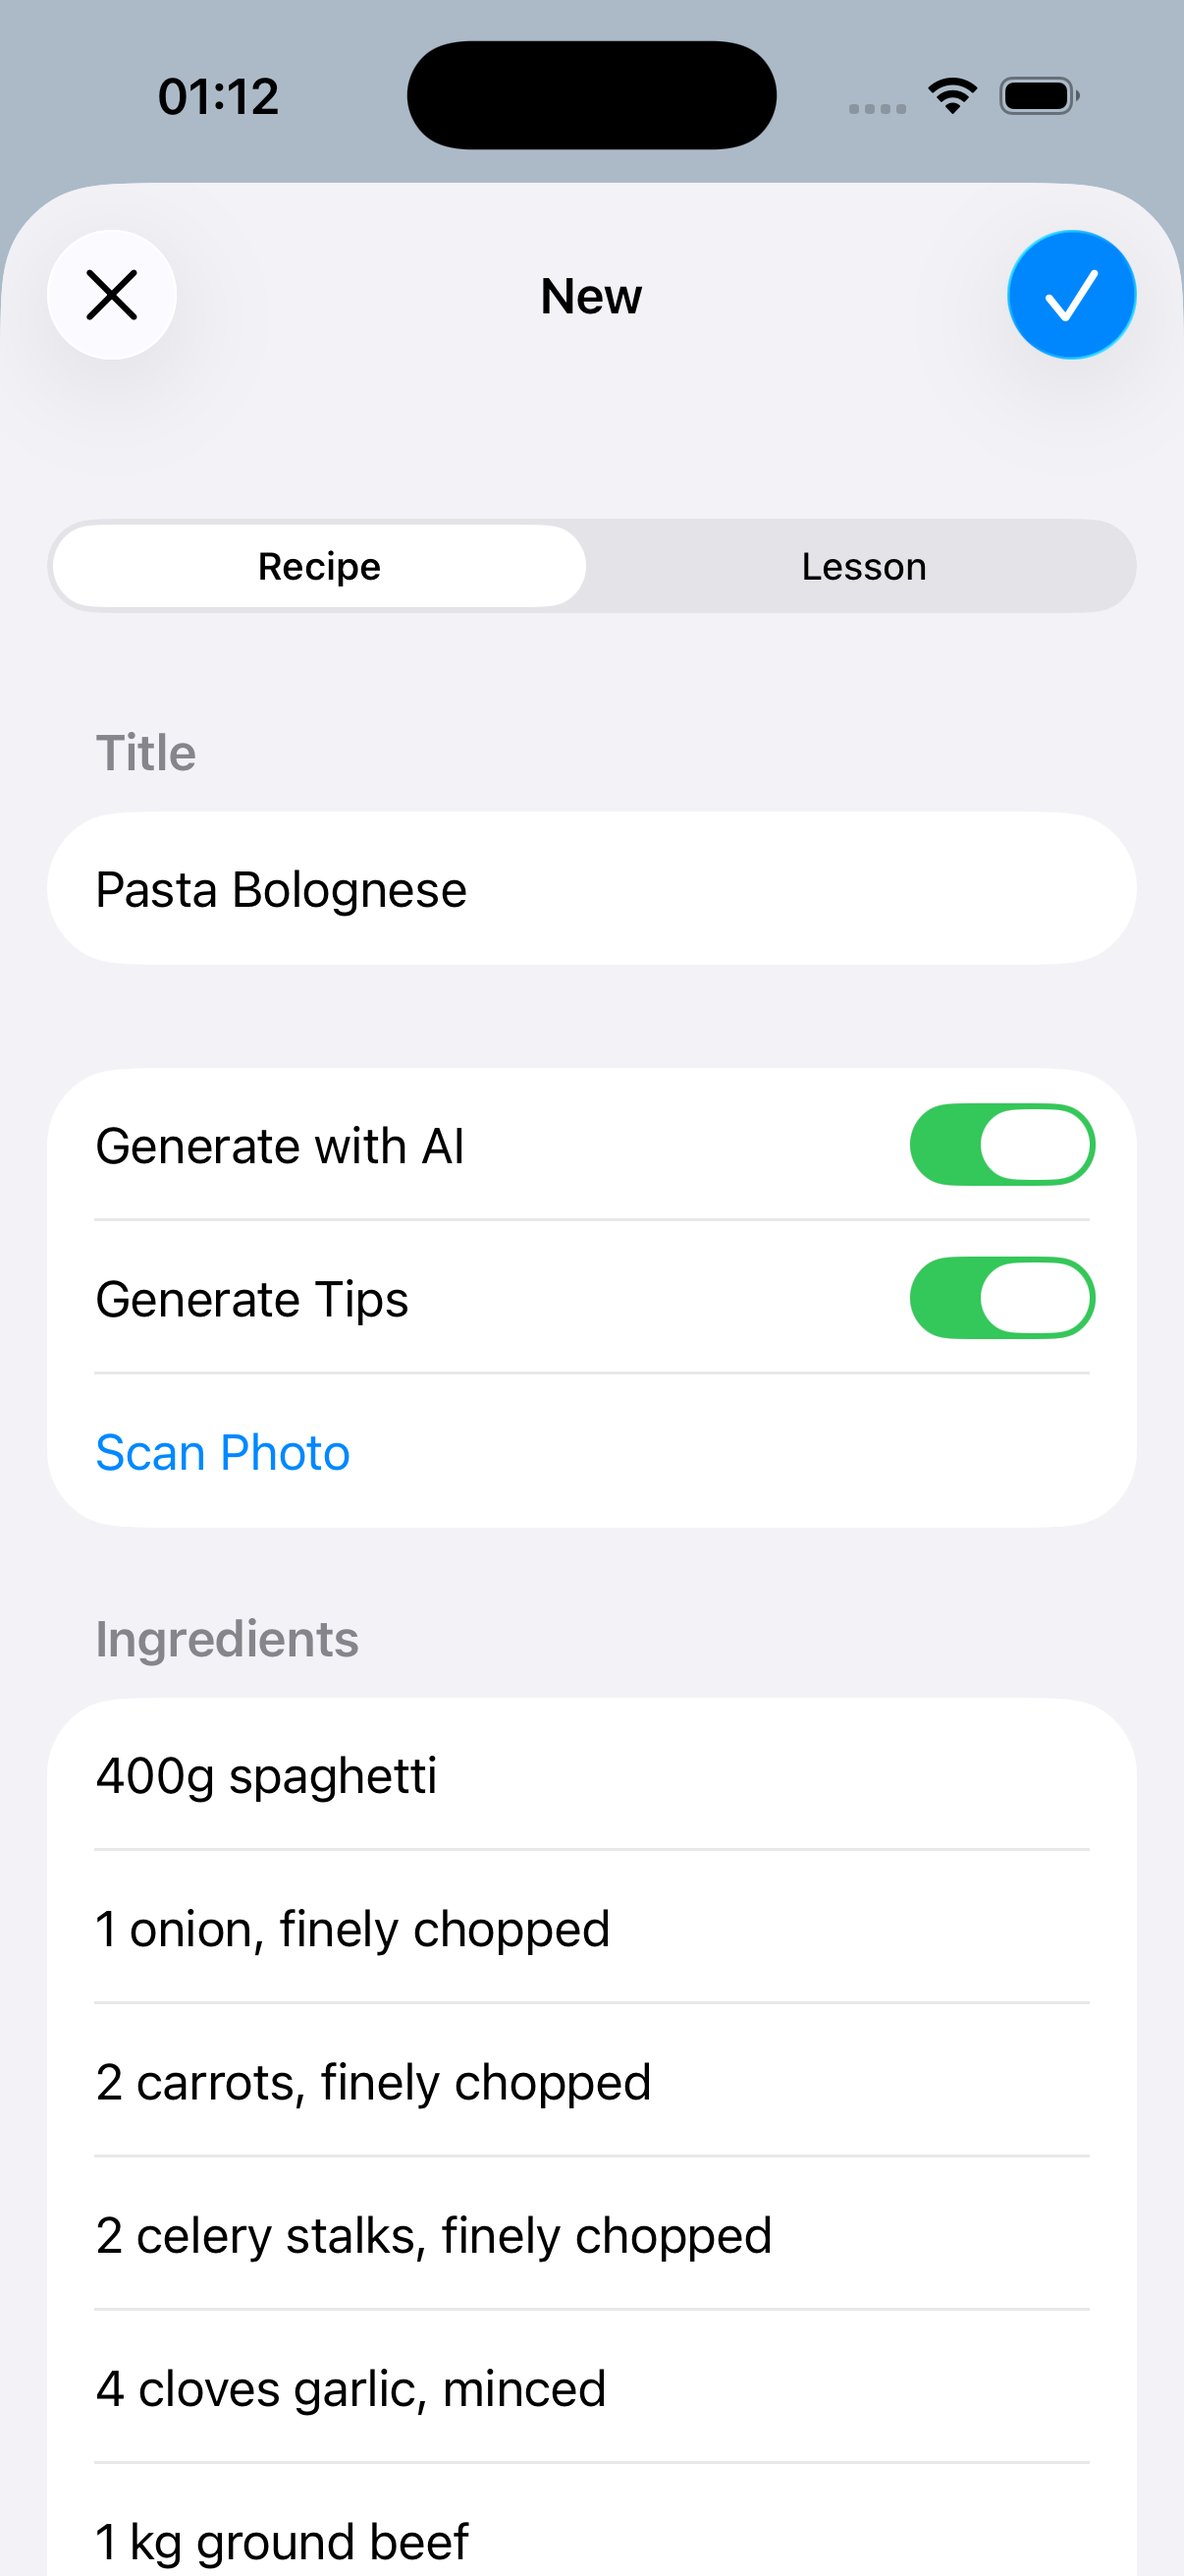
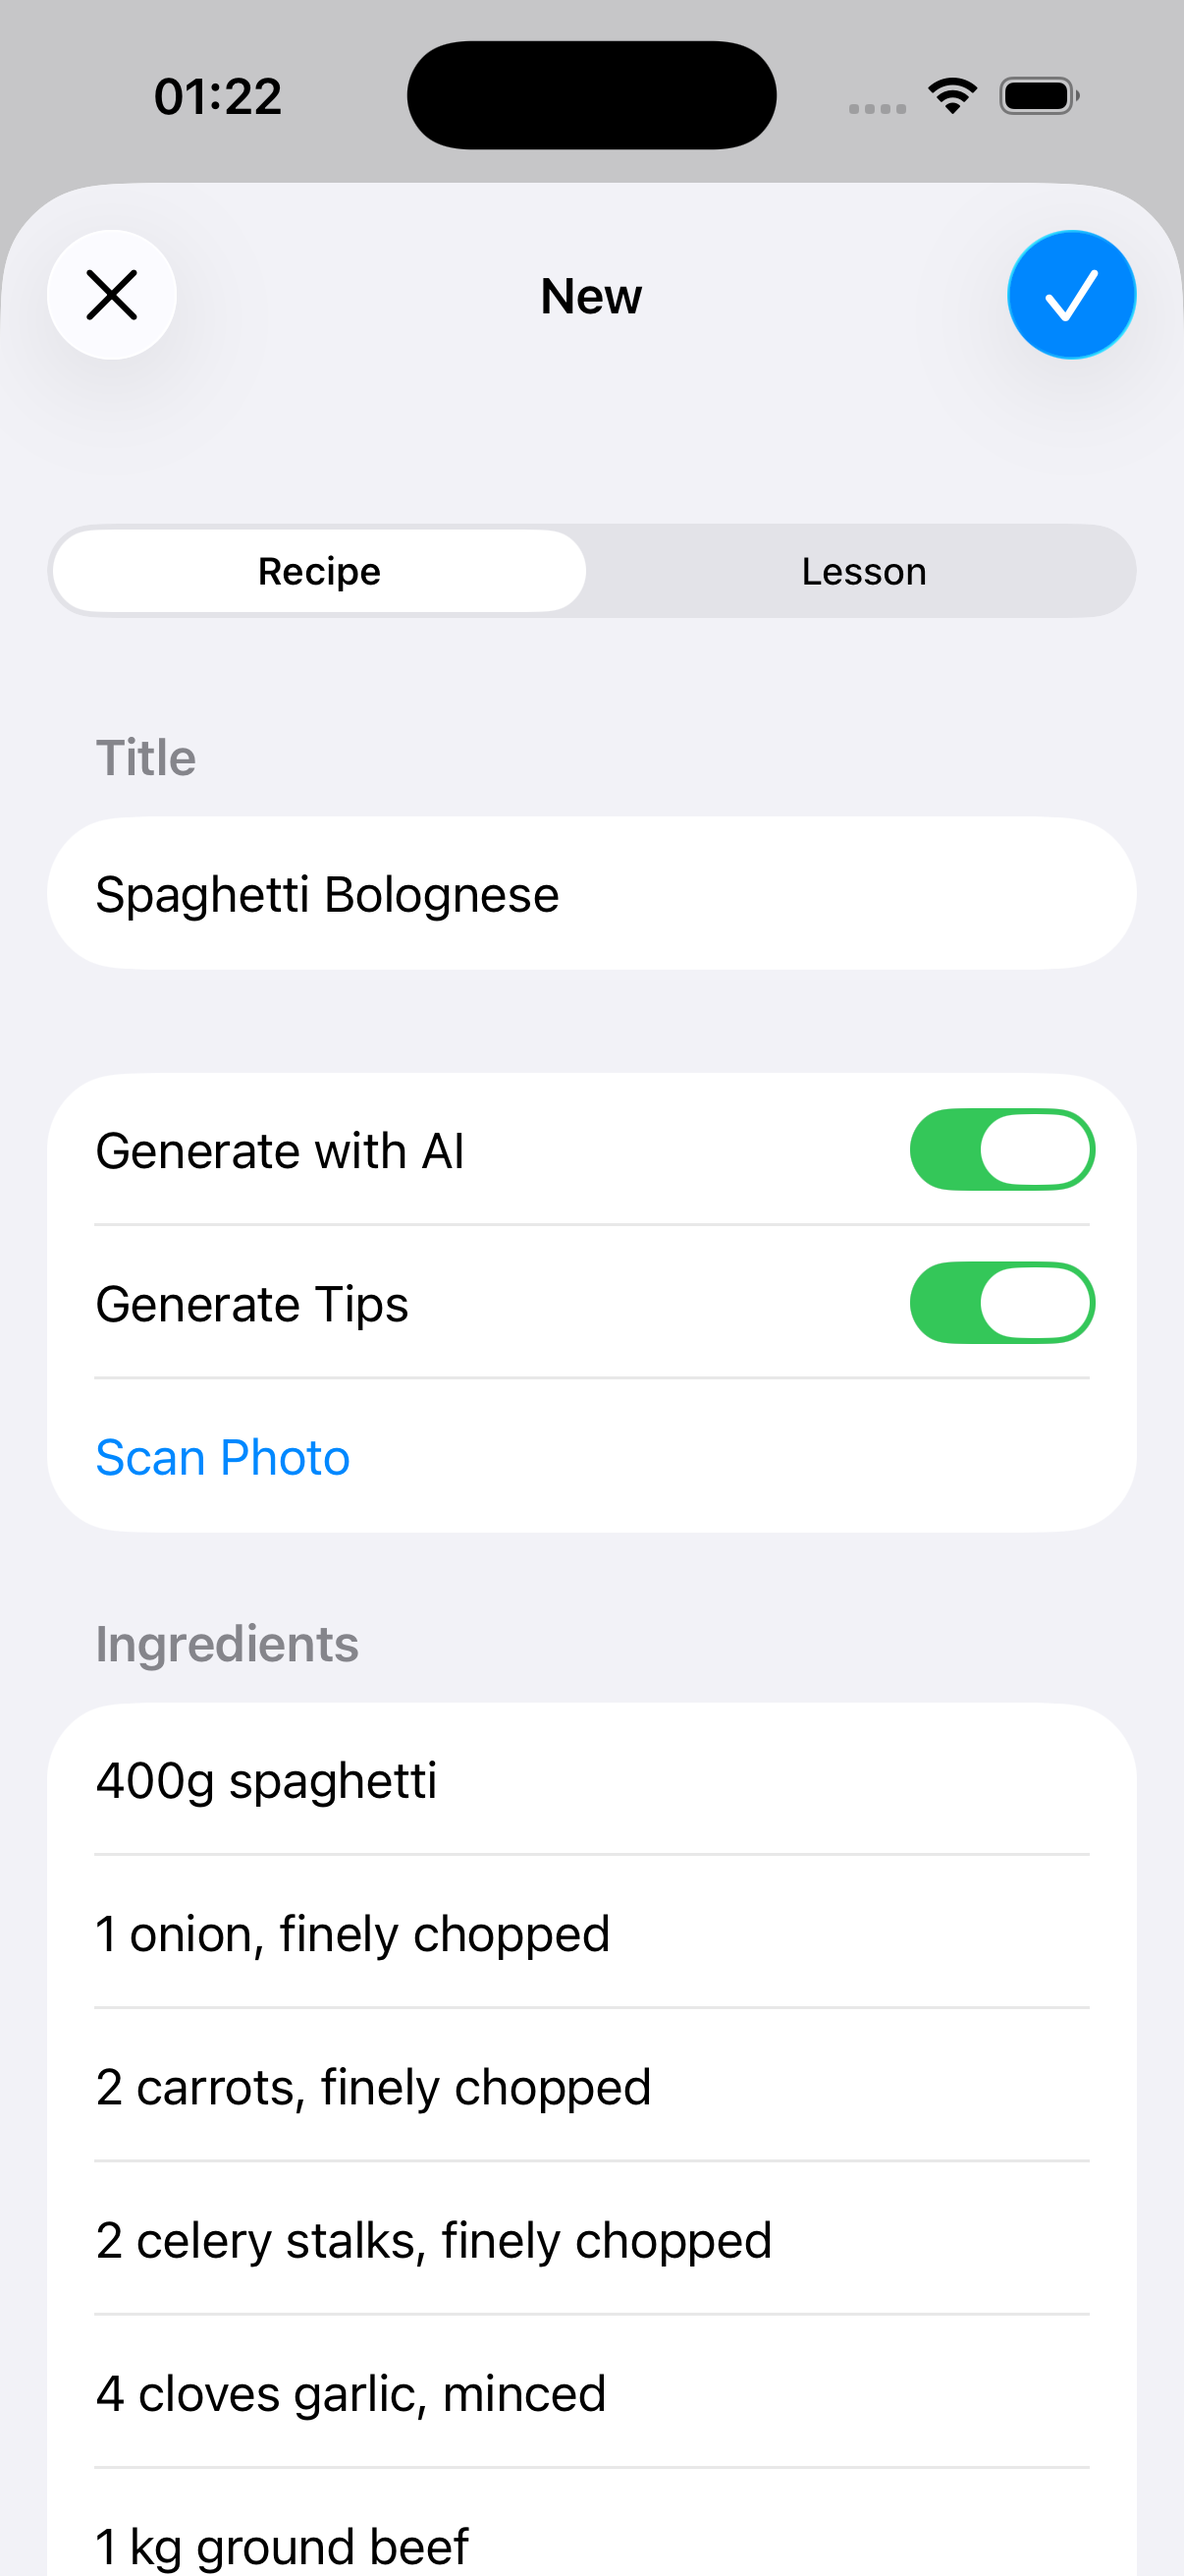
Update Sumari project imagery

diff --git a/lib/projects.ts b/lib/projects.ts
@@ -42,11 +42,15 @@ export const projects: Project[] = [
         "Safari Web Extension for AI-powered webpage summaries and follow-up questions using Apple Foundation Models.",
     href: "https://github.com/anthimewillmann/Sumari",
     linkLabel: "GitHub",
-    image: "/Sumari.PNG",
+    image: "/sumari-mobile-light.jpeg",
     overviewImageWidth: "w-[59.8%]",
     gallery: [
-      "/565B4AED-40A0-4D86-BC48-17FA3EBBDBDD_1_101_o.jpeg",
-      "/1B4C09C4-152A-4C51-A5E3-1AB3BCB0E890_1_101_o.jpeg",
+      "/sumari-mobile-light.jpeg",
+      "/sumari-mobile-dark.jpeg",
+      "/sumari-desktop-light.png",
+      "/sumari-desktop-dark.png",
+      "/sumari-sheet-dark.jpeg",
+      "/sumari-sheet-light.jpeg",
     ],
     portrait: true,
   },
